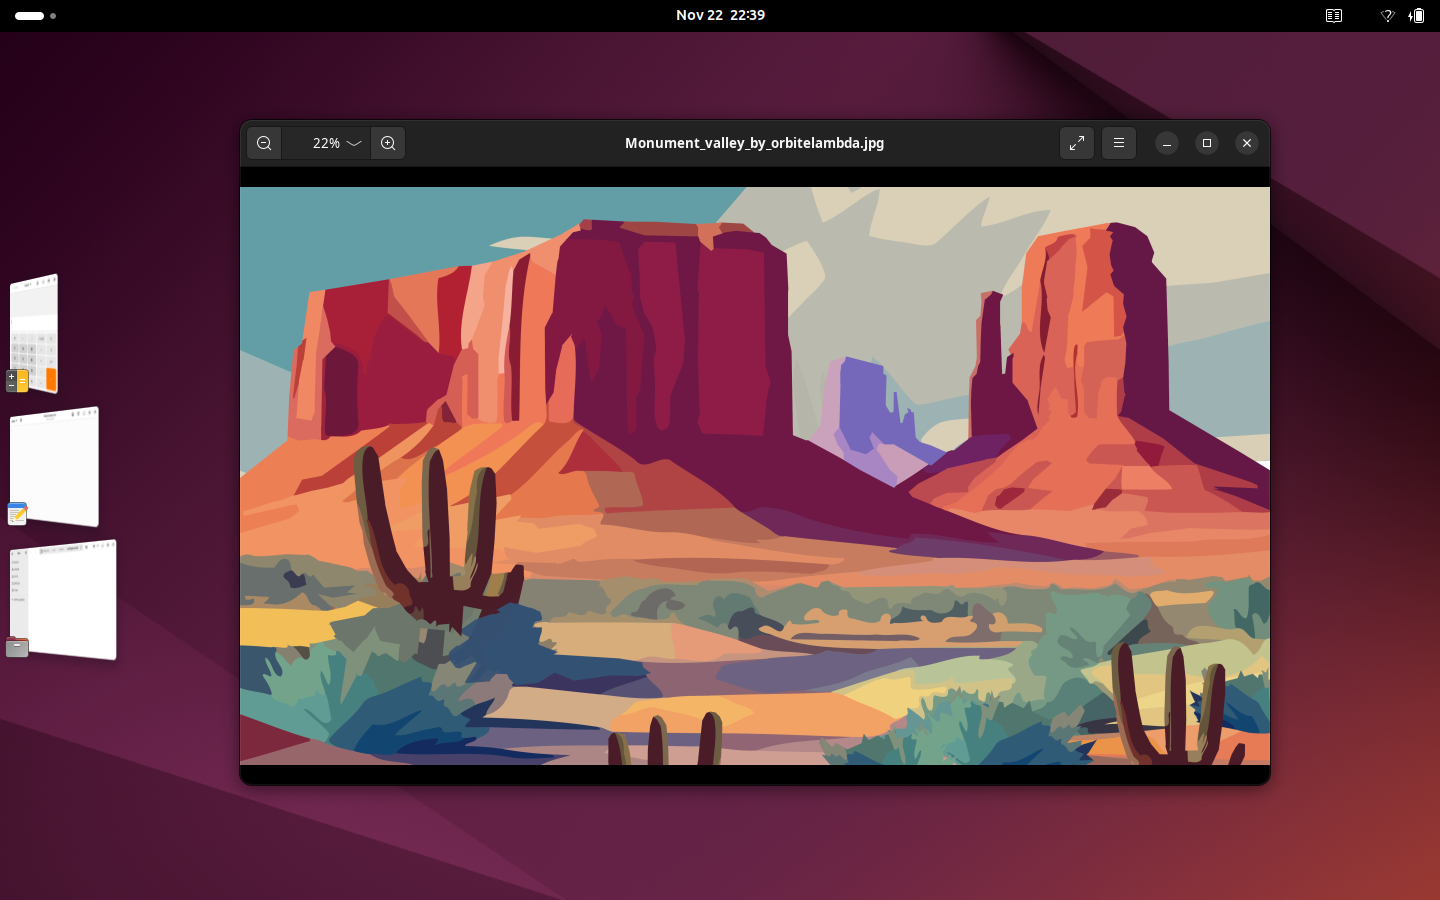
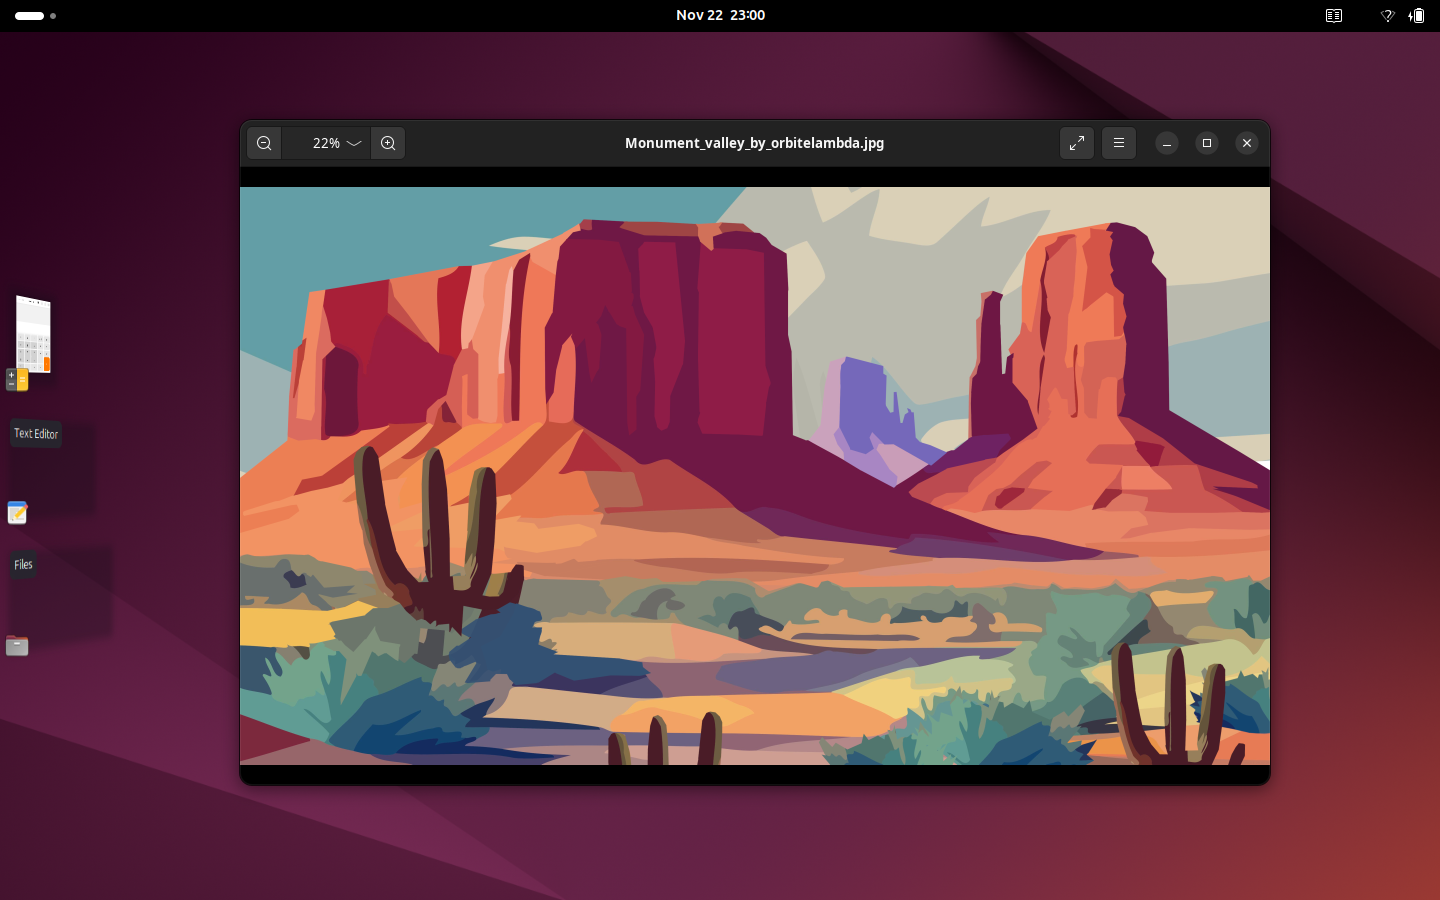
Preserve group geometry and suppress shelf during fullscreen IME composition

Changed region(s): [[0.0, 0.3111, 0.0938, 0.7467], [0.5, 0.0, 0.5312, 0.0311]]

diff --git a/extension/extension.js b/extension/extension.js
@@ -1,7 +1,4 @@
 import Clutter from 'gi://Clutter';
-import Cairo from 'cairo';
-import Cogl from 'gi://Cogl';
-import Gdk from 'gi://Gdk?version=4.0';
 import GObject from 'gi://GObject';
 import Graphene from 'gi://Graphene';
 import Mtk from 'gi://Mtk';
@@ -56,6 +53,10 @@ export default class StageShelf extends Extension {
         Main.layoutManager.addChrome(this._edge, {trackFullscreen: true});
         this._edge.hide();
         this._edge.connect('enter-event', () => {
+            if (this._fullscreen()) {
+                this._hideShelf();
+                return Clutter.EVENT_PROPAGATE;
+            }
             this._edge.hide();
             this._shelf.show();
             this._shelf.translation_x = -this._shelf.width * 0.65;
@@ -114,7 +115,7 @@ export default class StageShelf extends Extension {
             [global.display, 'grab-op-end'], [global.display, 'workareas-changed'], [global.display, 'in-fullscreen-changed'],
             [global.display, 'window-entered-monitor'], [global.display, 'window-left-monitor'],
             [global.workspace_manager, 'active-workspace-changed'],
-            [global.window_manager, 'map'], [Main.overview, 'hidden'],
+            [global.window_manager, 'map'], [global.window_manager, 'destroy'], [Main.overview, 'hidden'],
             [Main.layoutManager, 'monitors-changed'],
         ])
             this._signals.push([object, object.connect(event, () => this._queue())]);
@@ -209,27 +210,9 @@ export default class StageShelf extends Extension {
             const buffer = w.get_buffer_rect();
             const clip = new Mtk.Rectangle({x: frame.x - buffer.x, y: frame.y - buffer.y,
                 width: frame.width, height: frame.height});
-            // The raw window image excludes Shell's in-flight opacity and scale.
-            // Keep only a thumbnail-sized copy after the application is parked.
-            const surface = actor.get_image(clip);
-            let content;
-            if (surface && surface.getWidth() > 0 && surface.getHeight() > 0) {
-                const factor = Math.min(1, 440 / Math.max(surface.getWidth(), surface.getHeight()));
-                const width = Math.max(1, Math.round(surface.getWidth() * factor));
-                const height = Math.max(1, Math.round(surface.getHeight() * factor));
-                const small = new Cairo.ImageSurface(Cairo.Format.ARGB32, width, height);
-                const cr = new Cairo.Context(small);
-                cr.scale(width / surface.getWidth(), height / surface.getHeight());
-                cr.setSourceSurface(surface, 0, 0);
-                cr.paint();
-                cr.$dispose();
-                const pixels = Gdk.pixbuf_get_from_surface(small, 0, 0, width, height);
-                content = new Clutter.Image();
-                content.set_bytes(pixels.read_pixel_bytes(), Cogl.PixelFormat.RGBA_8888,
-                    width, height, pixels.rowstride);
-            } else {
-                content = actor.paint_to_content(clip) ?? actor.paint_to_content(null);
-            }
+            // A freshly mapped actor may not have received a buffer yet.
+            const content = actor.get_texture()?.get_texture()
+                ? actor.paint_to_content(clip) ?? actor.paint_to_content(null) : null;
             this._pictures.set(w, {content, ratio: frame.width / frame.height});
         } catch (error) {
             console.debug('Stage Shelf preview unavailable', error.message);
@@ -238,12 +221,23 @@ export default class StageShelf extends Extension {
         this._animateWindow(w, true);
     }
 
+    _fullscreen() {
+        const monitor = Main.layoutManager.primaryMonitor;
+        if (!monitor)
+            return false;
+        const ws = global.workspace_manager.get_active_workspace();
+        // IME candidate windows may temporarily defeat Mutter's monitor-level
+        // fullscreen heuristic. The underlying client's fullscreen flag persists.
+        return monitor.inFullscreen || ws.list_windows().some(w =>
+            w.fullscreen && !w.minimized && w.get_monitor() === monitor.index);
+    }
+
     _sync() {
         const monitor = Main.layoutManager.primaryMonitor;
         const workspace = global.workspace_manager.get_active_workspace();
         if (this._drop)
             return;
-        if (!monitor || Main.overview.visible) {
+        if (!monitor || Main.overview.visible || this._fullscreen()) {
             this._hideShelf();
             return;
         }
@@ -267,7 +261,7 @@ export default class StageShelf extends Extension {
         }
         for (const w of windows) {
             if (!this._watched.has(w)) {
-                const ids = ['notify::minimized', 'notify::maximized-horizontally', 'position-changed', 'size-changed', 'workspace-changed'].map(signal =>
+                const ids = ['notify::minimized', 'notify::fullscreen', 'notify::maximized-horizontally', 'position-changed', 'size-changed', 'workspace-changed'].map(signal =>
                     w.connect(signal, () => this._queue()));
                 ids.push(w.connect('unmanaged', () => {
                     this._parked.delete(w);
@@ -380,7 +374,7 @@ export default class StageShelf extends Extension {
     }
 
     _draw(stages, monitor) {
-        if (!stages.length || monitor.inFullscreen) {
+        if (!stages.length || this._fullscreen()) {
             this._pageKey = '';
             this._shelf.destroy_all_children();
             this._hideShelf();
@@ -401,8 +395,10 @@ export default class StageShelf extends Extension {
         if (key !== this._pageKey) {
             this._closeHint();
             this._shelf.destroy_all_children();
-            for (const windows of page)
-                this._shelf.add_child(this._card(windows, width, height, scale));
+            page.forEach((windows, i) => {
+                const tilt = Math.max(-1, Math.min(1, (total / 2 - i * (height + gap) - height / 2) / (2 * height)));
+                this._shelf.add_child(this._card(windows, width, height, scale, tilt));
+            });
             this._pageKey = key;
         }
         this._shelf.set_position(x, y);
@@ -455,6 +451,7 @@ export default class StageShelf extends Extension {
         const panel = new St.BoxLayout({vertical: true, reactive: true, track_hover: true,
             style_class: 'stage-members', width: Math.round(Math.min(312 * scale, area.width * 0.55))});
         this._hint = panel;
+        Main.layoutManager.addChrome(panel);
         const heading = new St.Label({text: `组合中的窗口 · ${windows.length}`, style_class: 'stage-members-heading'});
         panel.add_child(heading);
         const scroll = new St.ScrollView({hscrollbar_policy: St.PolicyType.NEVER,
@@ -488,7 +485,6 @@ export default class StageShelf extends Extension {
             });
             list.add_child(row);
         }
-        Main.layoutManager.addChrome(panel);
         const maxHeight = Math.round(area.height * 0.63);
         scroll.height = Math.min(maxHeight, list.get_preferred_height(panel.width - 28 * scale)[1]);
         const h = panel.get_preferred_height(panel.width)[1];
@@ -503,20 +499,34 @@ export default class StageShelf extends Extension {
         panel.ease({opacity: 255, duration: 120});
     }
 
-    _card(windows, width, height, scale) {
+    _card(windows, width, height, scale, tilt) {
         const apps = windows.map(w => this._tracker.get_window_app(w));
         const names = [...new Set(windows.map((w, i) => apps[i]?.get_name() ?? w.get_title()))];
         const button = new St.Button({style_class: 'stage-card', can_focus: true,
             accessible_name: names.join(' · '), track_hover: true});
         const layout = new Clutter.Actor({width, height});
         button.set_child(layout);
-        const count = Math.min(windows.length, 3);
-        let anchorY = 0;
-        for (let i = count - 1; i >= 0; i--) {
+        const rects = windows.slice(0, 4).map(w => w.get_frame_rect());
+        const left = Math.min(...rects.map(r => r.x));
+        const top = Math.min(...rects.map(r => r.y));
+        const spanX = Math.max(...rects.map(r => r.x + r.width)) - left;
+        const spanY = Math.max(...rects.map(r => r.y + r.height)) - top;
+        const shrink = Math.min(height * 0.78 / Math.max(1, spanY), width * 1.40 / Math.max(1, spanX));
+        const composite = new Clutter.Actor({width: spanX * shrink, height: spanY * shrink});
+        const taper = 0.12;
+        const matrix = new Graphene.Matrix();
+        matrix.init_from_float([0.72, tilt * 0.15 + taper * composite.height / (2 * composite.width),
+            0, taper / composite.width, 0, 1, 0, 0, 0, 0, 1, 0, 0, 0, 0, 1]);
+        composite.set_transform(matrix);
+        const y = Math.round((height - composite.height) / 2);
+        composite.set_position(5 * scale, y);
+        layout.add_child(composite);
+        const anchorY = y + composite.height;
+        for (let i = rects.length - 1; i >= 0; i--) {
+            const r = rects[i];
             const shot = this._pictures.get(windows[i]);
-            const ratio = shot?.ratio ?? 1.45;
-            const h = Math.min(height * 0.80, width * 1.34 / ratio);
-            const w = h * ratio;
+            const w = Math.max(1, r.width * shrink);
+            const h = Math.max(1, r.height * shrink);
             const face = new St.Widget({style_class: 'stage-face', width: w, height: h});
             if (shot?.content) {
                 const picture = new Clutter.Actor({content: shot.content, width: w, height: h});
@@ -529,16 +539,12 @@ export default class StageShelf extends Extension {
                 const label = new St.Label({text: apps[i]?.get_name() ?? windows[i].get_title(), style_class: 'stage-missing'});
                 face.add_child(label);
             }
-            const taper = -0.18;
-            const matrix = new Graphene.Matrix();
-            matrix.init_from_float([0.54, taper * h / (2 * w), 0, taper / w,
-                0, 1, 0, 0, 0, 0, 1, 0, 0, 0, 0, 1]);
-            face.set_transform(matrix);
-            const top = Math.round((height - h) * 0.5);
-            face.set_position(5 * scale + i * 15 * scale, top - i * 5 * scale);
-            layout.add_child(face);
-            if (i === 0)
-                anchorY = top + h;
+            // Expose a sliver when multiple windows occupy the same rectangle.
+            const coincident = i > 0 && Math.abs(r.x - rects[0].x) * shrink < 4 * scale &&
+                Math.abs(r.y - rects[0].y) * shrink < 4 * scale;
+            face.set_position((r.x - left) * shrink + (coincident ? 7 * scale * i : 0),
+                (r.y - top) * shrink - (coincident ? 3 * scale * i : 0));
+            composite.add_child(face);
         }
         const uniqueApps = [...new Set(apps.filter(Boolean))];
         uniqueApps.slice(0, 3).forEach((app, i) => {
